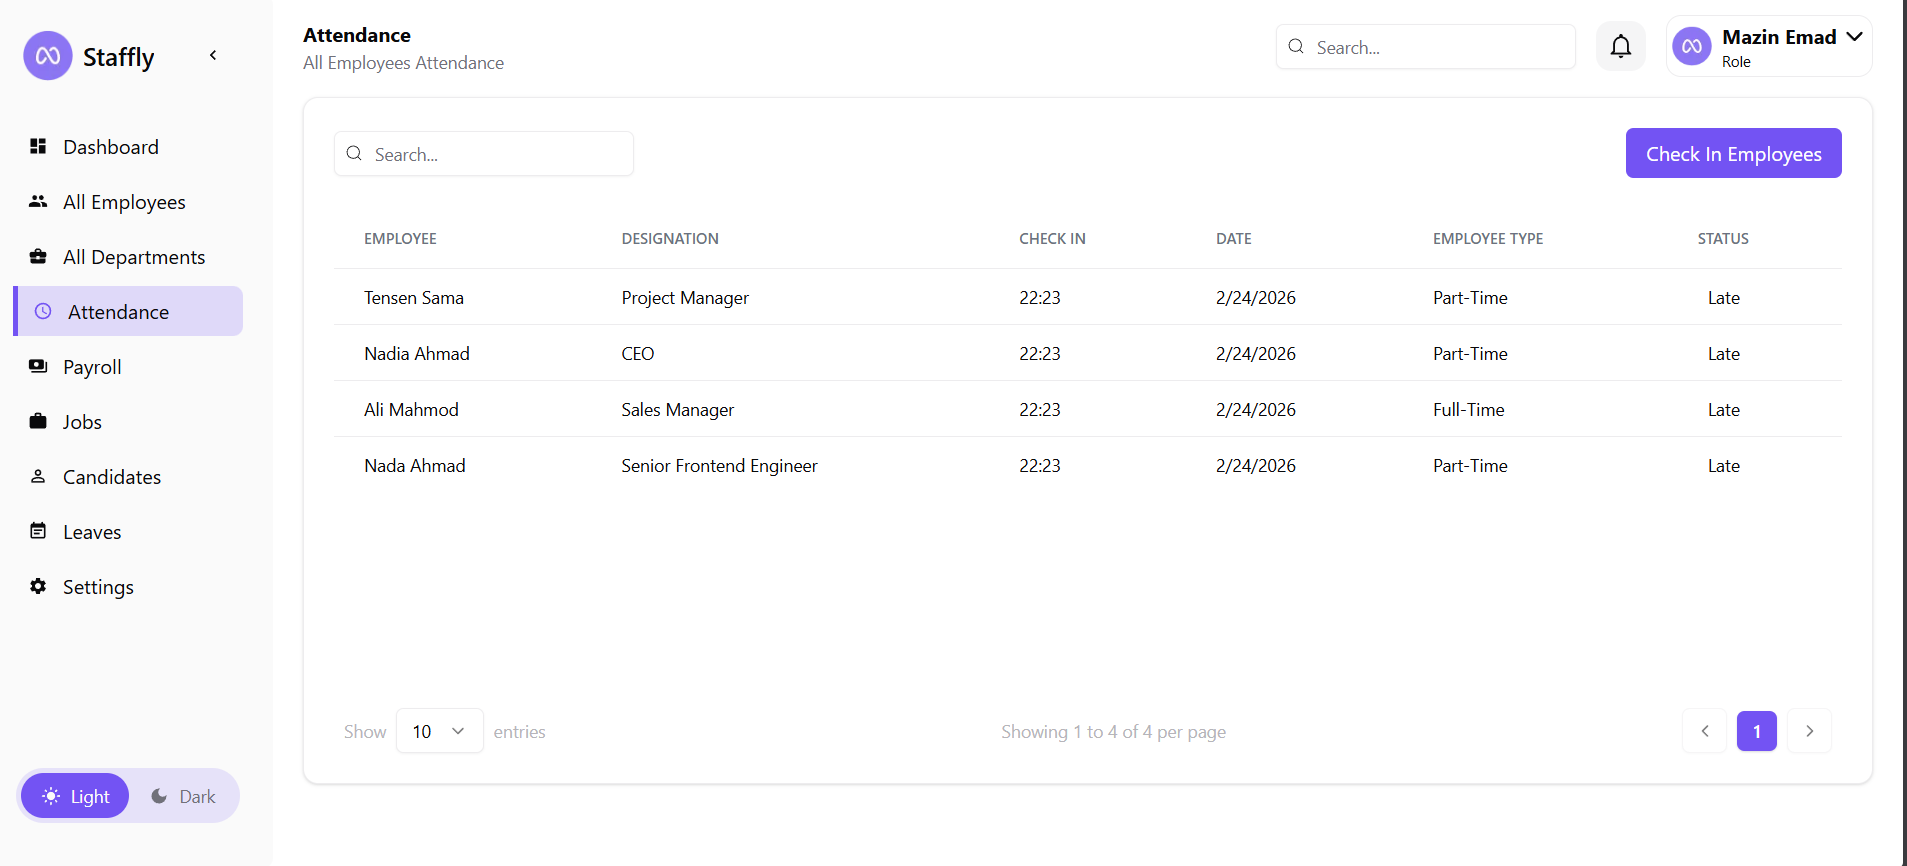
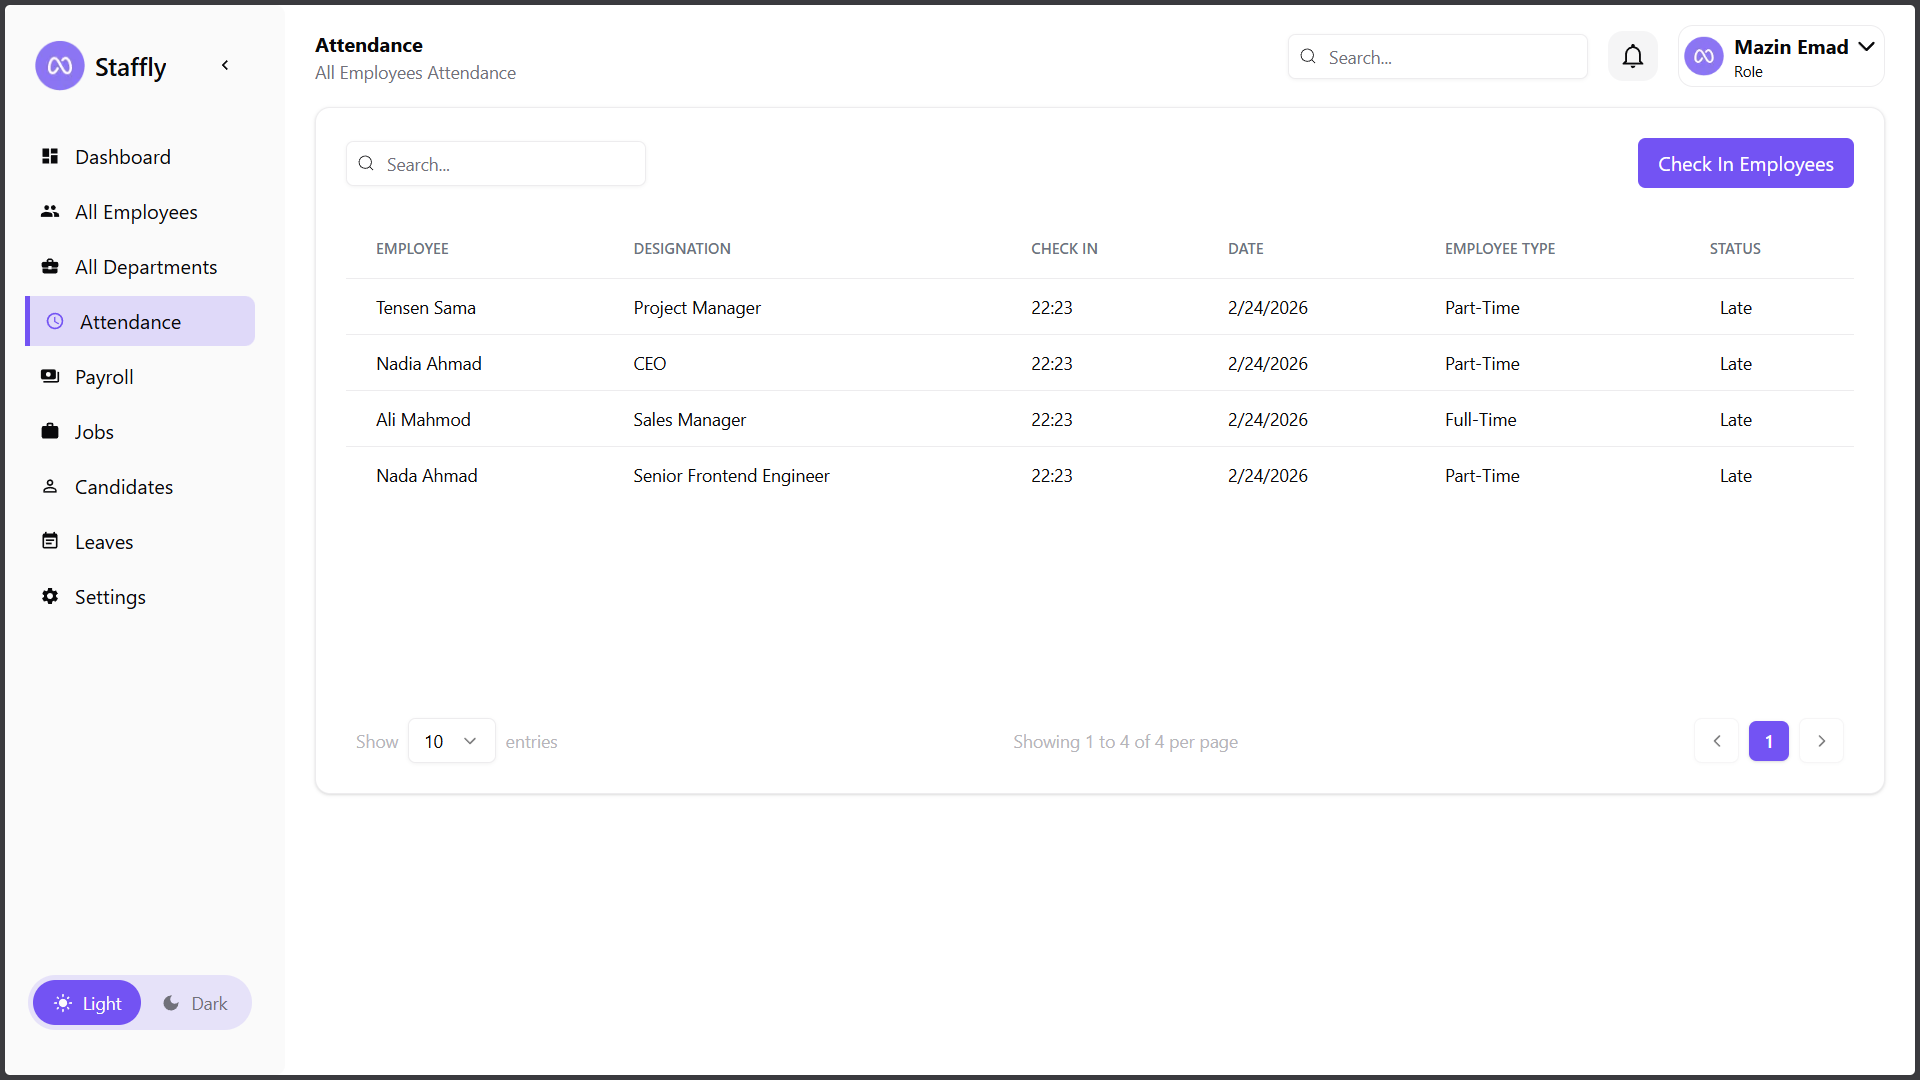
fixing images

diff --git a/app/client/src/components/marketing/product/hero-section.tsx b/app/client/src/components/marketing/product/hero-section.tsx
@@ -1,9 +1,9 @@
-'use client'
-import React from 'react'
-import Link from 'next/link'
-import { Rocket, Zap } from 'lucide-react'
-import { Button } from '@/components/ui/button'
-import Image from 'next/image'
+"use client";
+import React from "react";
+import Link from "next/link";
+import { Rocket, Zap } from "lucide-react";
+import { Button } from "@/components/ui/button";
+import Image from "next/image";
 
 export default function HeroSection() {
   return (
@@ -11,23 +11,22 @@ export default function HeroSection() {
       <div className="relative pt-24">
         <div className="mx-auto max-w-7xl px-6">
           <div className="max-w-3xl text-center sm:mx-auto lg:mr-auto lg:mt-0 lg:w-4/5">
-
-            <h1 className="mt-8 text-balance text-4xl font-semibold md:text-5xl xl:text-6xl xl:[line-height:1.125]">Simplify the way you manage</h1>
-            <p className="mx-auto mt-8 hidden max-w-2xl text-wrap text-lg sm:block">Because you deserve a solution that drives growth not holds you back.</p>
+            <h1 className="mt-8 text-balance text-4xl font-semibold md:text-5xl xl:text-6xl xl:[line-height:1.125]">
+              Simplify the way you manage
+            </h1>
+            <p className="mx-auto mt-8 hidden max-w-2xl text-wrap text-lg sm:block">
+              Because you deserve a solution that drives growth not holds you
+              back.
+            </p>
 
             <div className="mt-8 flex justify-center gap-4">
-              <Button
-                size="lg"
-                variant="outline"
-                asChild>
+              <Button size="lg" variant="outline" asChild>
                 <Link href="#">
                   <Rocket className="relative size-4" />
                   <span className="text-nowrap">Start Building</span>
                 </Link>
               </Button>
-              <Button
-                size="lg"
-                asChild>
+              <Button size="lg" asChild>
                 <Link href="#">
                   <Zap className="relative size-4" />
                   <span className="text-nowrap">Get Started</span>
@@ -44,7 +43,7 @@ export default function HeroSection() {
           <div className="relative mx-auto max-w-6xl overflow-hidden px-4">
             <Image
               className="z-2 border-border/25 relative rounded-2xl border"
-              src="/imgs/frame.png"
+              src="/imgs/frame.jpg"
               alt="app screen"
               width={2796}
               height={2008}

diff --git a/app/client/src/components/marketing/product/cta-section.tsx b/app/client/src/components/marketing/product/cta-section.tsx
@@ -1,7 +1,7 @@
-import Link from 'next/link';
-import { ArrowRight } from 'lucide-react';
-import { Button } from '@/components/ui/button';
-import Image from 'next/image';
+import Link from "next/link";
+import { ArrowRight } from "lucide-react";
+import { Button } from "@/components/ui/button";
+import Image from "next/image";
 
 export default function CTASection() {
   return (
@@ -12,26 +12,18 @@ export default function CTASection() {
             Ready to transform your HR experience?
           </h2>
           <p className="text-lg mb-8">
-            Join thousands of businesses that trust Staffly HR to streamline their HR processes and boost team productivity.
+            Join thousands of businesses that trust Staffly HR to streamline
+            their HR processes and boost team productivity.
           </p>
           <div className="flex flex-col sm:flex-row justify-center gap-4">
-            <Button
-              size="lg"
-              asChild
-            >
+            <Button size="lg" asChild>
               <Link href="/sign-up" className="flex items-center gap-2">
                 Get Started Now
                 <ArrowRight className="h-4 w-4 transition-transform group-hover:translate-x-1" />
               </Link>
             </Button>
-            <Button
-              variant="outline"
-              size="lg"
-              asChild
-            >
-              <Link href="#">
-                Request a Demo
-              </Link>
+            <Button variant="outline" size="lg" asChild>
+              <Link href="#">Request a Demo</Link>
             </Button>
           </div>
         </div>
@@ -43,7 +35,7 @@ export default function CTASection() {
           <div className="relative mx-auto max-w-6xl overflow-hidden px-4">
             <Image
               className="z-2 border-border/25 relative rounded-2xl border"
-              src="/imgs/frame.png"
+              src="/imgs/frame.jpg"
               alt="app screen"
               width={1596}
               height={808}

diff --git a/app/client/src/components/marketing/product/hrflow-section.tsx b/app/client/src/components/marketing/product/hrflow-section.tsx
@@ -49,14 +49,14 @@ export default function HRFlowSection() {
     //   title: 'Profile',
     //   description: 'Employee profiles and documents',
     //   icon: <User className="size-5" />,
-    //   image: '/imgs/frame.png',
+    //   image: '/imgs/frame.jpg',
     // },
     // {
     //   id: 'enps',
     //   title: 'eNPS',
     //   description: 'Employee satisfaction and feedback',
     //   icon: <BarChart2 className="size-5" />,
-    //   image: '/imgs/frame.png',
+    //   image: '/imgs/frame.jpg',
     // },
   ];
 
